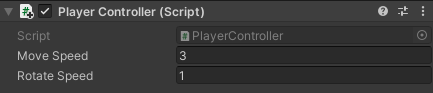
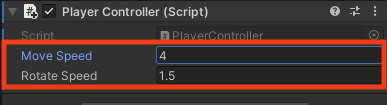
Updating steps 1-4 of explore a 3d world.

Changed region(s): [[0.0, 0.0, 1.0, 1.0], [0.8372, 0.043, 0.9922, 0.172]]

diff --git a/en/step_4.md b/en/step_4.md
@@ -384,9 +384,23 @@ line_highlights: 29
 
 --- task ---
 
-**Test:** Play your scene and check if you are happy with the speed settings. 
+**Test:** Play your scene and check if you are happy with the speed settings.
 
-Make changes to `moveSpeed` and `rotateSpeed` in your script until you are happy. 
+If you select the Player in your scene view you can make changes to your `moveSpeed` and `rotateSpeed` variables in the Inspector. 
+
+![Inspector view of the Player GameObject, with the variables for the Player Controller script highlighted.](images/inspector-variables.png)
+
+--- collapse ---
+
+---
+title: Variables in the Inspector
+---
+
+When you change the value of a variable in the Inspector, it takes priority over the value set in your script. 
+
+Any future changes you make to those values in your script **will not take effect**. 
+
+--- /collapse ---
 
 **Tip:** You can mask the `Debug.Log()` lines by putting `//` at the beginning of the line. 
 You can also mask multiple lines using `/*` and `*/`:
@@ -397,7 +411,7 @@ You can also mask multiple lines using `/*` and `*/`:
         }*/
 ```
 
-Click the **Play** button again to exit Play mode.
+Click the **Play** button again to exit Play mode. 
 
 --- /task ---
 

diff --git a/en/step_2.md b/en/step_2.md
@@ -10,7 +10,7 @@ Your 3D world,  or 'map', needs a floor and walls.
 </div>
 
 <p style="border-left: solid; border-width:10px; border-color: #0faeb0; background-color: aliceblue; padding: 10px;">
-People are spending more time in <span style="color: #0faeb0">**online virtual environments**</span>. As well as playing games, people relax, explore, socialise, learn, and participate in interactive entertainment. Some people call the future of these environments the <span style="color: #0faeb0">**metaverse**</span>. Being able to design 3D worlds is an important skill.
+People are spending more time in <span style="color: #0faeb0">**online virtual worlds**</span>. As well as playing games, people relax, explore, socialise and learn. Being able to design 3D worlds provides you with endless opportunities to create interactive experiences like these.
 </p>
 
 A Unity project needs graphics and sound 'Assets'.  

diff --git a/en/step_1.md b/en/step_1.md
@@ -28,7 +28,7 @@ You will also need to download the [Unity starter package](https://rpf.io/p/en/e
 --- task ---
 ### Play ▶
 
-**Click on the embedded project.** Navigate the 3D world using the WASD or arrow keys. What does the raccoon do when standing still? How do they move when walking? Can you walk through the walls?
+**Click on the embedded project.** ⬇ Navigate the 3D world using the WASD or arrow keys. What does the raccoon do when standing still? How do they move when walking? Can you walk through the walls?
 
 <iframe allowtransparency="true" width="710" height="450" src="https://explore-a-3d-world-basic.rpfilt.repl.co" frameborder="0"></iframe>
 
